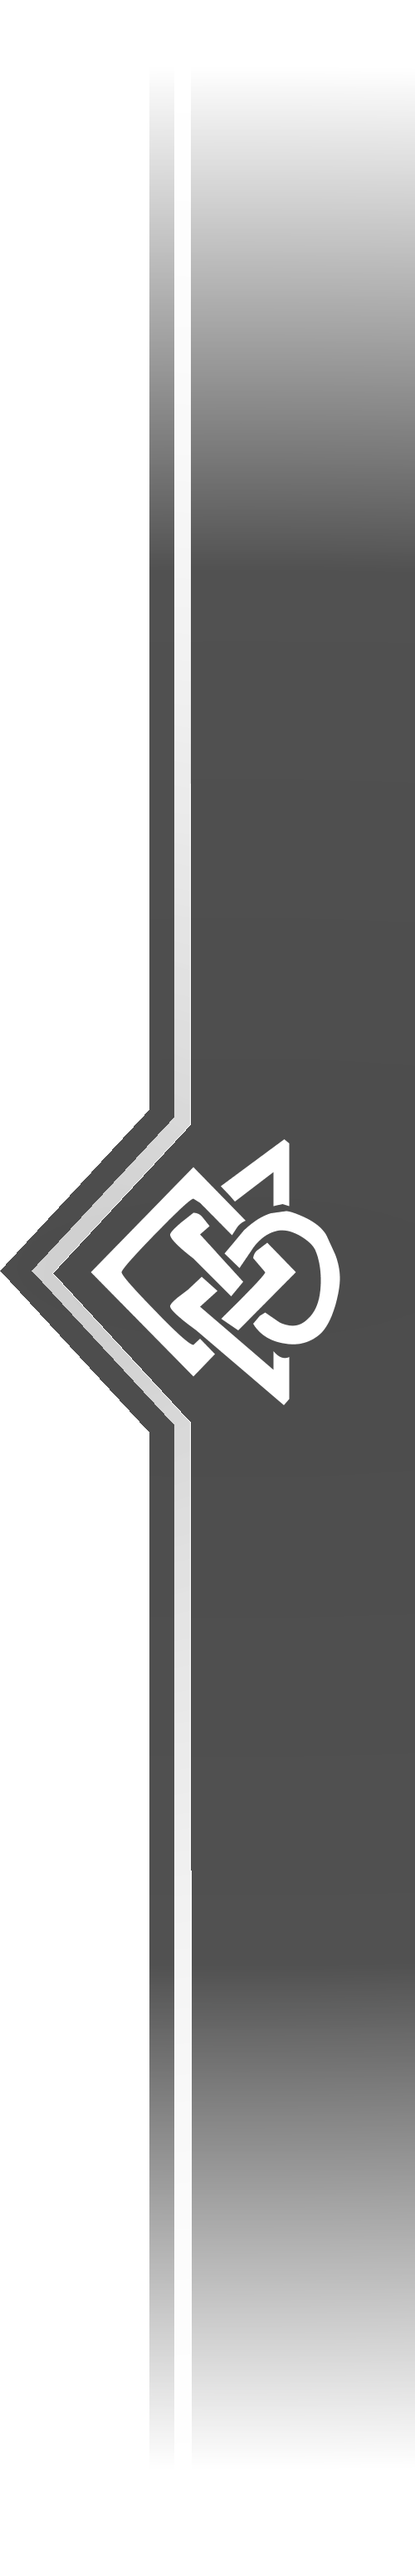
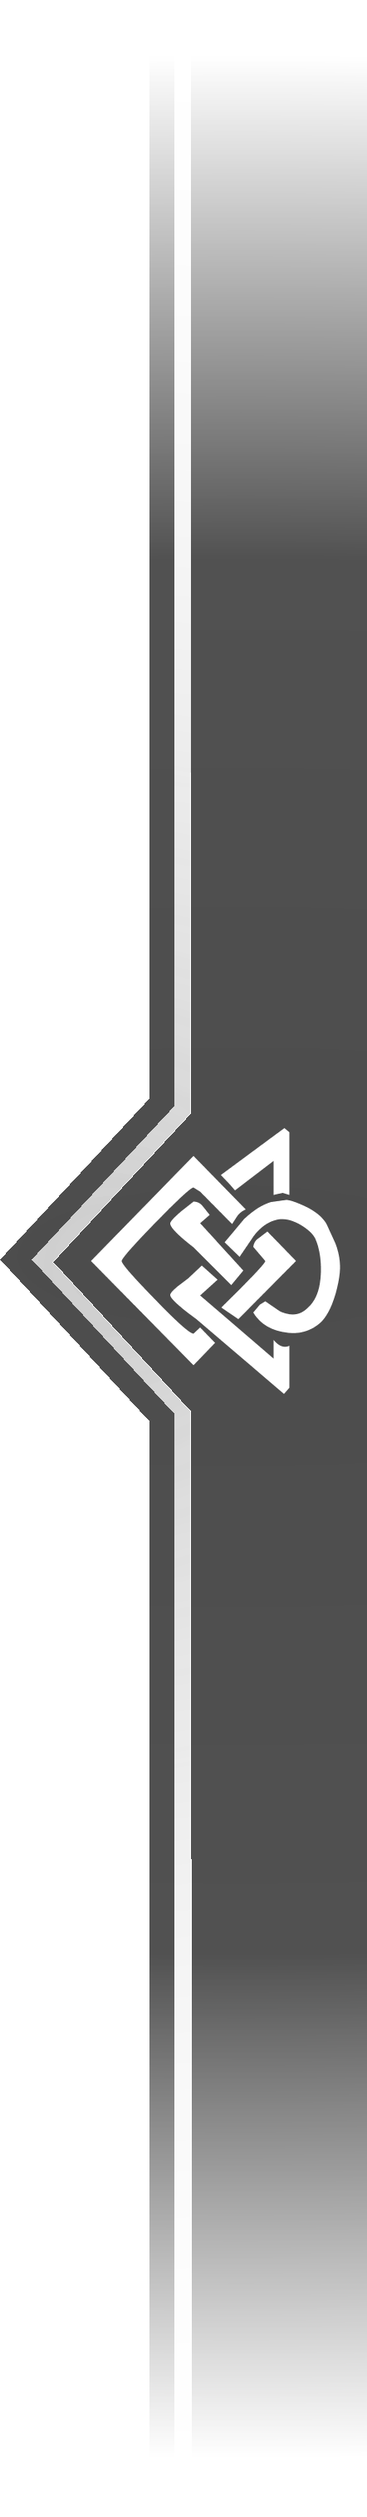
Fixed page quote height discrepancy

Changed region(s): [[0.0, 0.031, 0.9412, 0.9617]]

diff --git a/src/pages/characterPage.css b/src/pages/characterPage.css
@@ -95,7 +95,7 @@ img.mw-file-upright {
     z-index: 0;
     inset: 50% 0 auto;
     display: flex;
-    height: min(110%, calc(100cqw / 1.713));
+    height: min(100%, calc(100cqw / 1.713));
     transform: translateY(-50%);
     pointer-events: none;
 }
